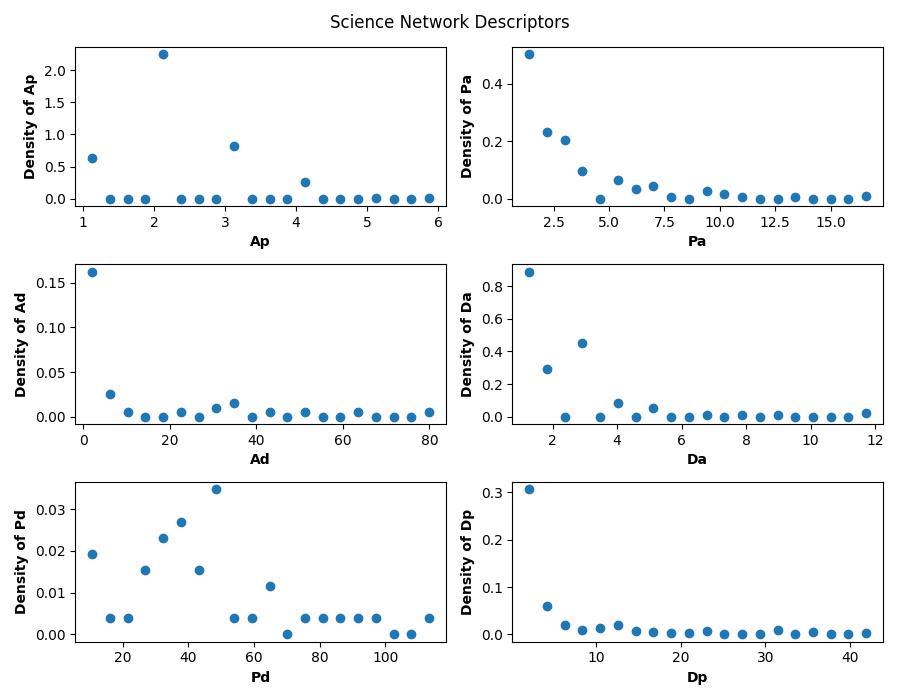
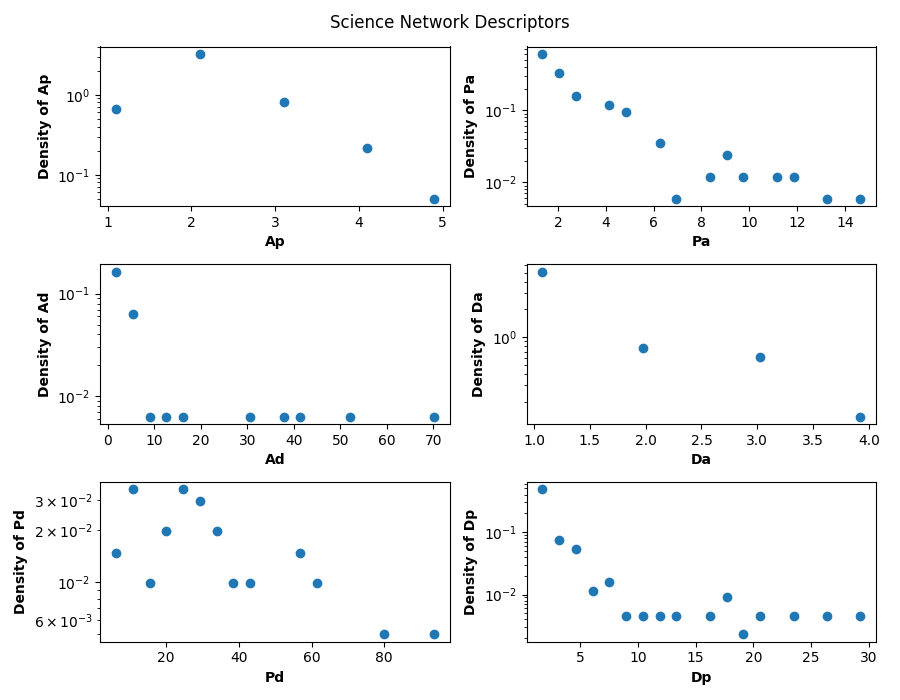
Added log y scale

diff --git a/modelReplication.py b/modelReplication.py
@@ -8,14 +8,14 @@ This script attempts to follow replicate the results from the following paper: h
 # Declare the Nanobank simulation
 nanobank = Evolution(Pn=0.9, Pw=0.28, Pd=0)
 nanobank.evolve(newAuthors=300)
-nanobank.plotDescriptorsDistr(saveToFile='outputs/nanobankPlots.png')
+nanobank.plotDescriptorsDistr(saveToFile='outputs/nanobankPlots.png', logBase=10)
 
 # Declare the Scholarometer simulation
 scholarometer = Evolution(Pn=0.04, Pw=0.35, Pd=0.01)
 scholarometer.evolve(newAuthors=300)
-scholarometer.plotDescriptorsDistr(saveToFile='outputs/scholarometerPlots.png')
+scholarometer.plotDescriptorsDistr(saveToFile='outputs/scholarometerPlots.png', logBase=10)
 
 # Declare the Bibsonomy simulation
 bibsonomy = Evolution(Pn=0.80, Pw=0.71, Pd=0.50)
 bibsonomy.evolve(newPapers=300)
-bibsonomy.plotDescriptorsDistr(saveToFile='outputs/bibsonomyPlots.png')
+bibsonomy.plotDescriptorsDistr(saveToFile='outputs/bibsonomyPlots.png', logBase=10)

diff --git a/modules/Evolution.py b/modules/Evolution.py
@@ -257,7 +257,7 @@ class Evolution:
         # print(f'Initial Paper: {self.initialPaper}')
 
     '''Plotting methods'''
-    def plotDescriptorsDistr(self, saveToFile=None):
+    def plotDescriptorsDistr(self, saveToFile=None, logBase=None):
         '''
         Method will take the descriptors dictionary returned from getQuantDescriptors method and plot subplots
         '''
@@ -278,6 +278,8 @@ class Evolution:
                 axis.scatter(binsMean, binVals)
                 axis.set_ylabel(f'Density of {lab}', fontweight='bold')
                 axis.set_xlabel(f'{lab}', fontweight='bold')
+                if logBase:
+                    axis.set_yscale('log',base=logBase) 
 
         # figure styling
         fig.suptitle('Science Network Descriptors')
